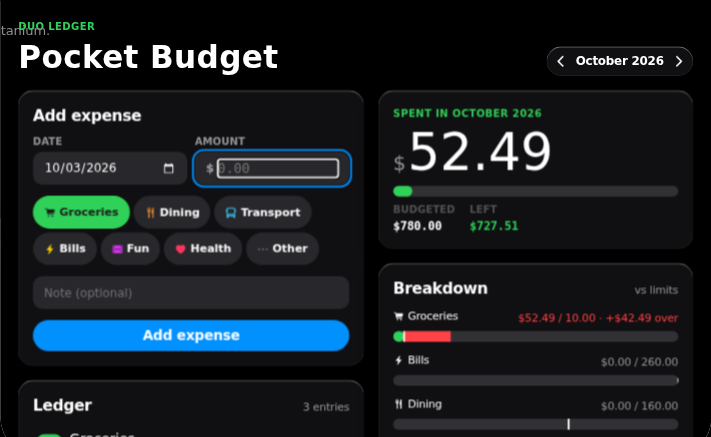
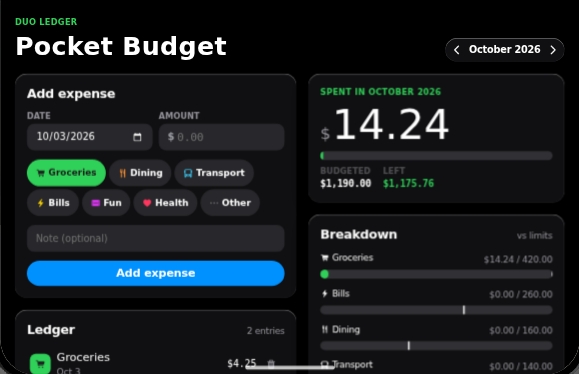
Lead the cover with the entry form

diff --git a/community-apps/pocket-budget/main.tsx b/community-apps/pocket-budget/main.tsx
@@ -595,9 +595,11 @@ function PocketBudget() {
           </div>
         </div>
       ) : (
+        // Cover leads with the entry form so a quick expense is the first
+        // thing on screen; the hero and charts sit one scroll below.
         <>
-          {hero}
           {entry}
+          {hero}
           {breakdown}
           {dayBars}
           {limitsCard}
